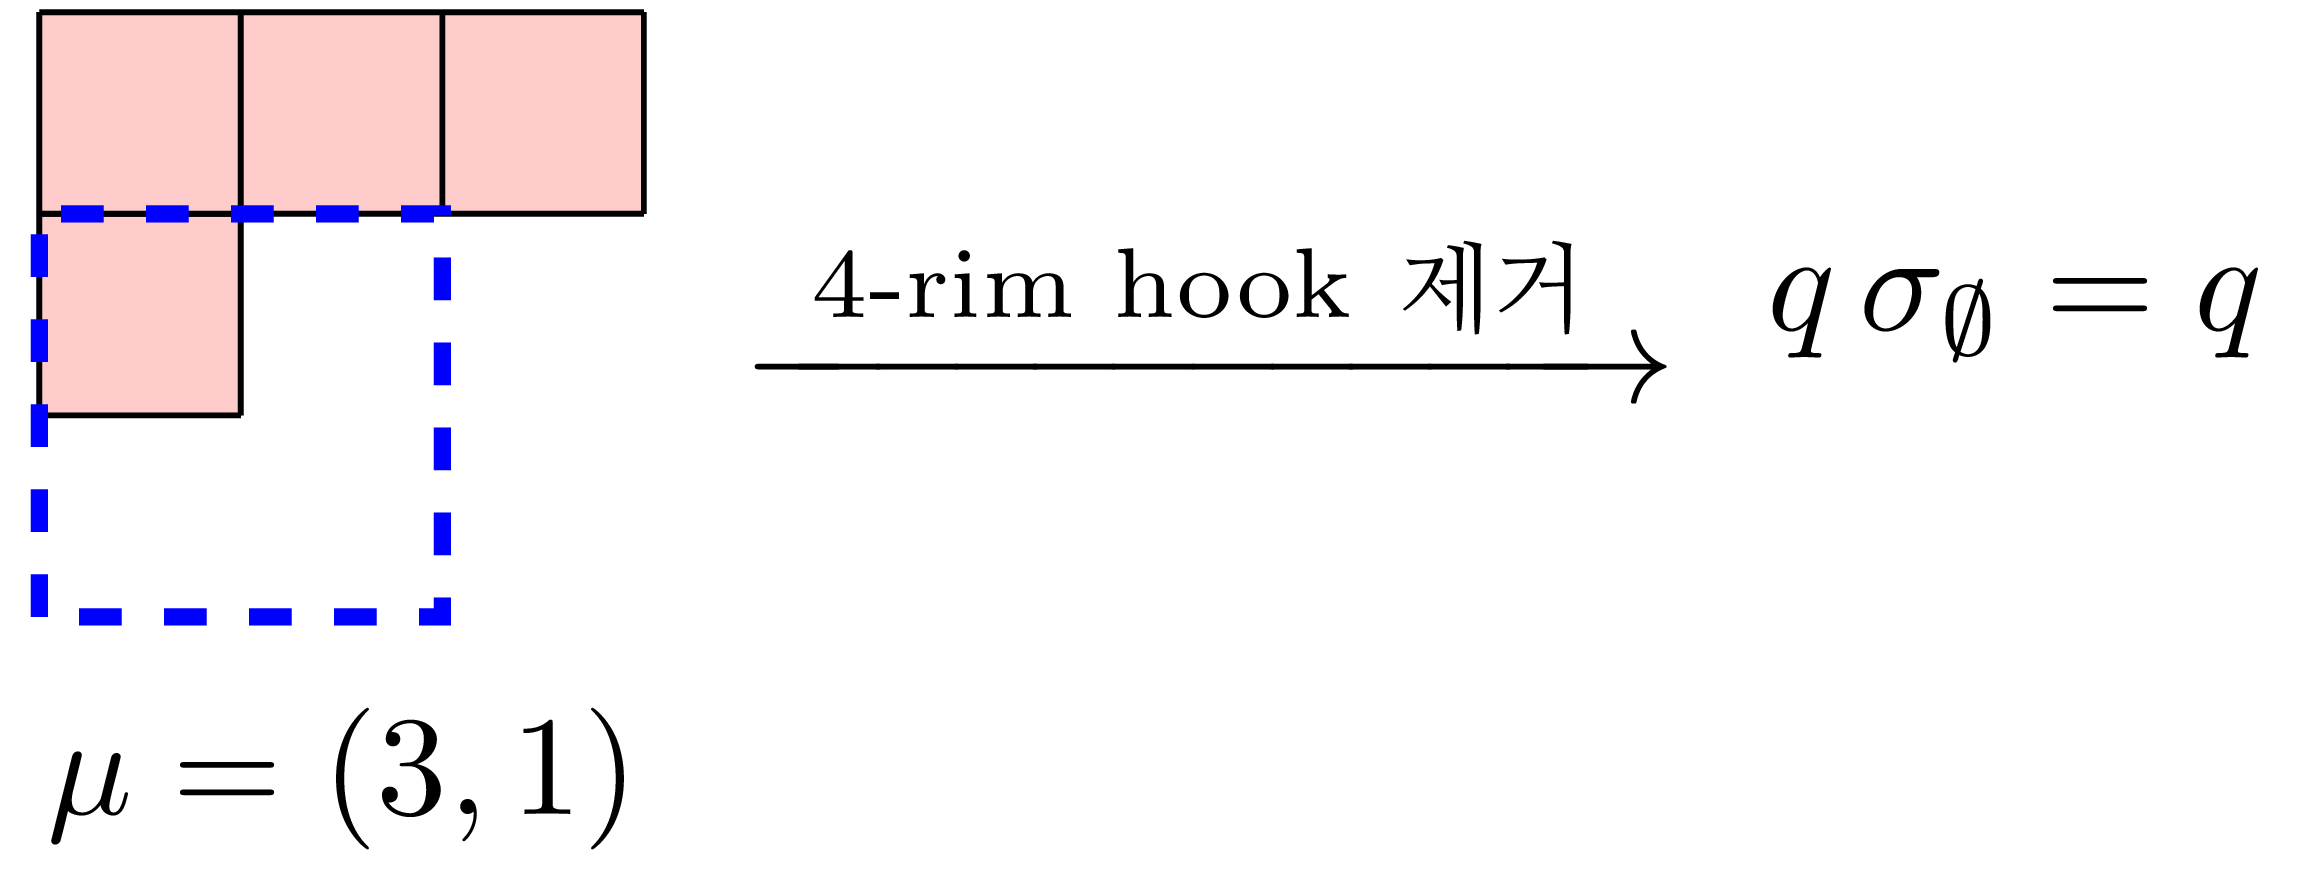
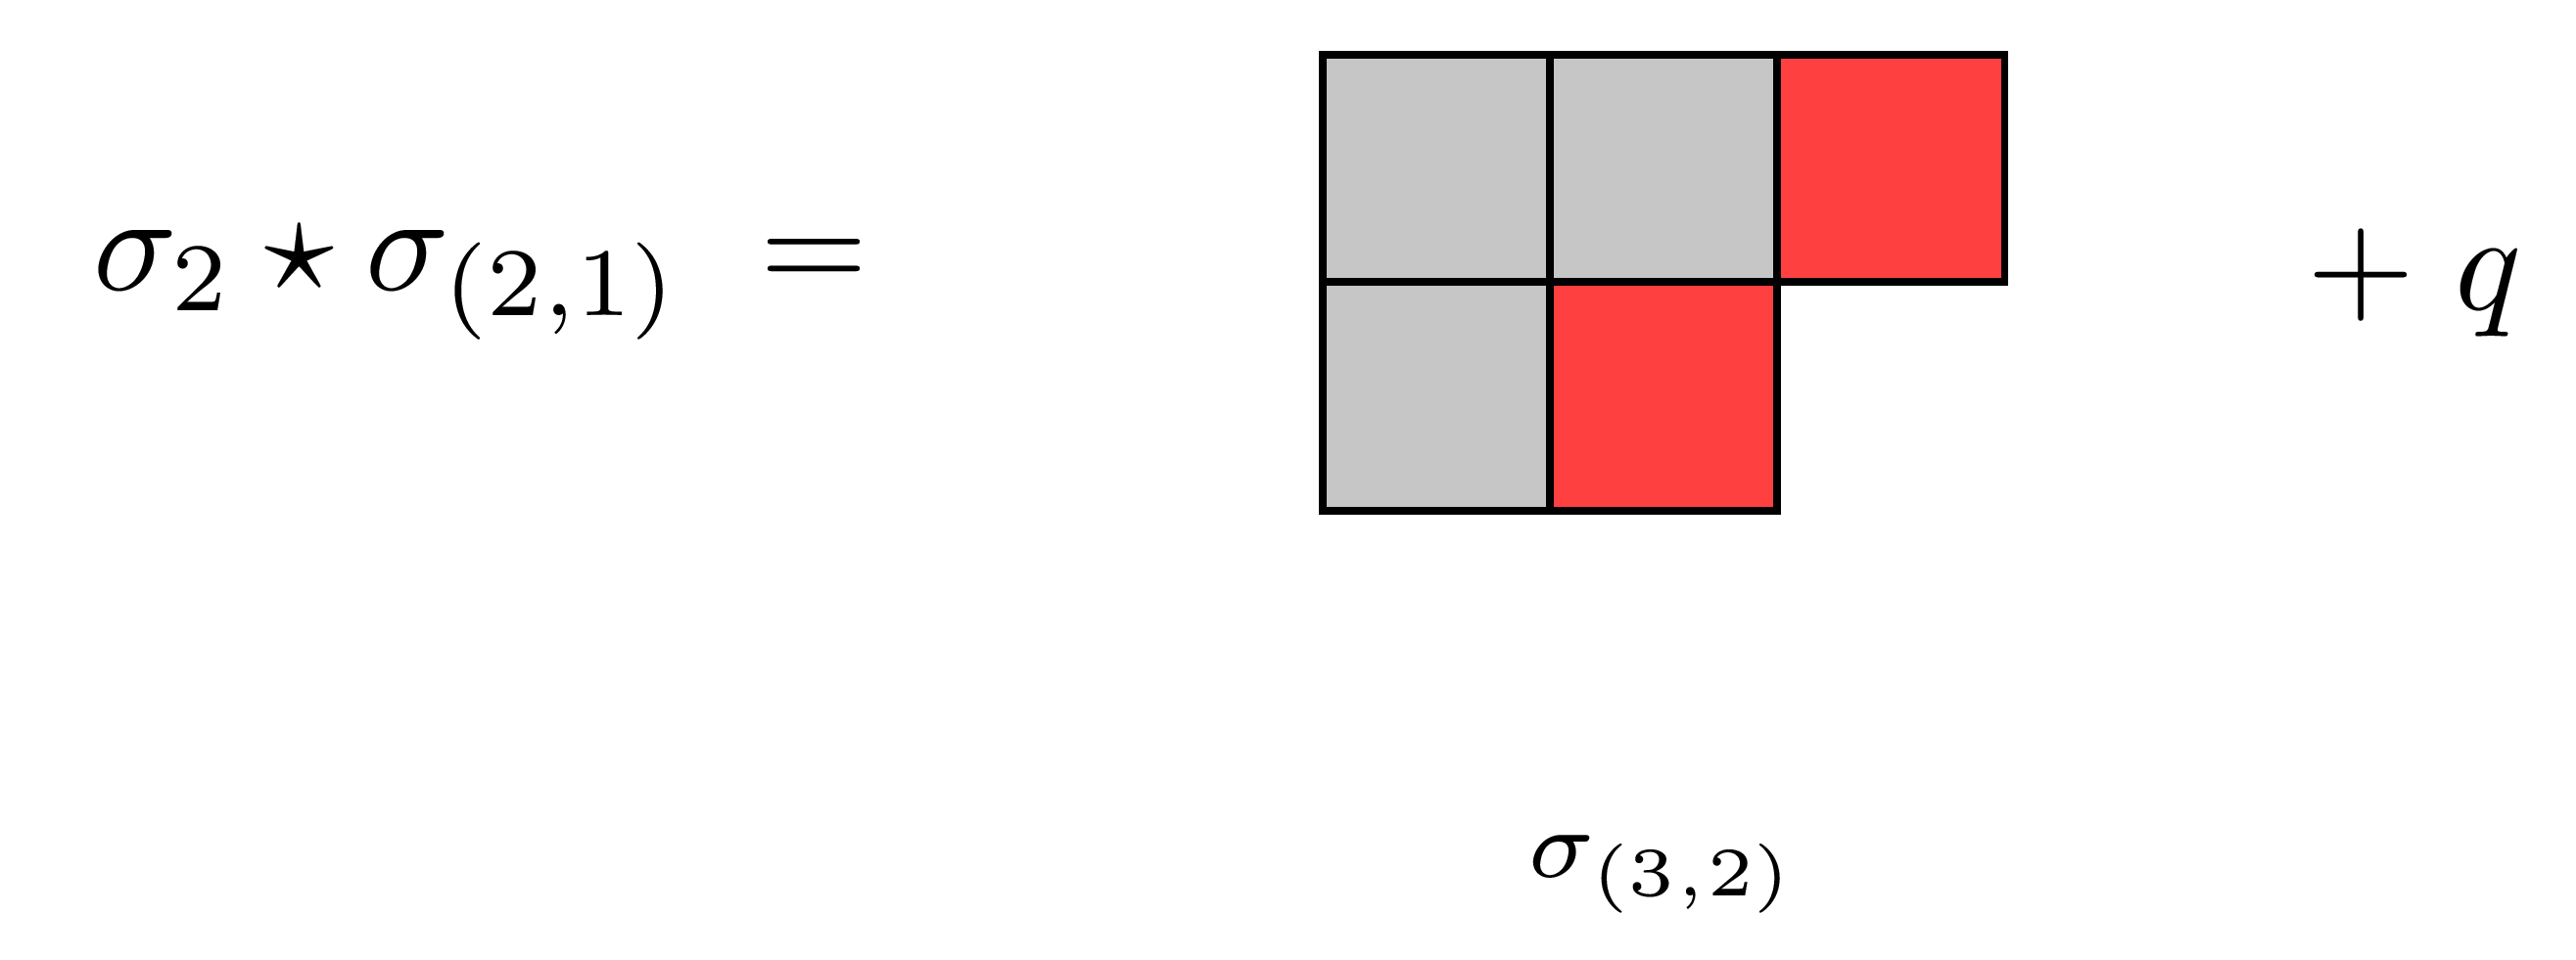
Auto: 260608 00:00
- About (ko): 소개 페이지 이미지 경로 대소문자 수정 및 카테고리 설명 문구 정리
- Quantum_Pieri_Rule (ko): 여집합 partition 정의와 dual basis 성질 관련 중복 설명 제거
- Mirror_Symmetry (tex): Quantum Pieri Rule 예시 도식에 classical 후보 및 초록 강조 추가
- Quantum_Pieri_Rule-4.png: Pieri Rule 도식 이미지 업데이트
- Quantum_Pieri_Rule-5.png: Pieri Rule 도식 이미지 업데이트
- Quantum_Pieri_Rule-6.png: Pieri Rule 신규 도식 이미지 추가
- Quantum_Pieri_Rule-7.png: Pieri Rule 신규 도식 이미지 추가
- katex-macros.js: `\Fl` 매크로 추가
- term_extraction_review.md: Field Theory 관련 용어 검토 기록 추가

diff --git a/assets/js/katex-macros.js b/assets/js/katex-macros.js
@@ -109,6 +109,7 @@ window.KATEX_MACROS = {
     "\\Fix":"\\operatorname{Fix}",
     "\\Frac":"\\operatorname{Frac}",
     "\\Frob":"\\operatorname{Frob}",
+    "\\Fl":"\\operatorname{Fl}",
     "\\Fun":"\\operatorname{Fun}",
     "\\fun":"\\operatorname{fun}",
     "\\Gal":"\\operatorname{Gal}",

diff --git a/assets/diagrams/Math/Mirror_Symmetry/Mirror_Symmetry.tex b/assets/diagrams/Math/Mirror_Symmetry/Mirror_Symmetry.tex
@@ -131,13 +131,96 @@
   \end{scope}
 \end{tikzpicture}
 
-%% 예시11: Gr(2,5) σ_3⋆σ_(2)=σ_(3,2)+q; λ=(2) 회색 + horizontal strip 빨강, 초과분이 q (Quantum_Pieri_Rule-4.png)
+%% 예시11 첫째 계산 후보: Gr(2,5) σ_3⋆σ_2 classical 후보 (5),(4,1),(3,2); λ=(2) 회색 + horizontal 3-strip 빨강, 점선 2x3, (3,2)만 초록 (현재 Quantum_Pieri_Rule-7.png로 staging; 문서순서상 최종 -4 예정, rotation 시 -4)
+\begin{tikzpicture}[scale=0.5]
+  %% C1 (5): 1행이 점선 박스 오른쪽으로 초과
+  \begin{scope}[shift={(0,0)}]
+    \fill[gray!45] (0,0) rectangle (2,1);
+    \fill[red!75] (2,0) rectangle (5,1);
+    \draw (0,0) grid (5,1);
+    \draw[blue!70, thick, dashed] (0,-1) rectangle (3,1);
+    \node at (2.5,-2.7) {$(5)$};
+  \end{scope}
+  %% C2 (4,1): 1행 4번째 열이 점선 박스 오른쪽으로 초과
+  \begin{scope}[shift={(7,0)}]
+    \fill[gray!45] (0,0) rectangle (2,1);
+    \fill[red!75] (2,0) rectangle (4,1);
+    \fill[red!75] (0,-1) rectangle (1,0);
+    \draw (0,0) grid (4,1);
+    \draw (0,-1) grid (1,0);
+    \draw[blue!70, thick, dashed] (0,-1) rectangle (3,1);
+    \node at (2.0,-2.7) {$(4,1)$};
+  \end{scope}
+  %% C3 (3,2): 유일하게 2x3 직사각형 안에 들어감 (초록)
+  \begin{scope}[shift={(13,0)}]
+    \fill[gray!45] (0,0) rectangle (2,1);
+    \fill[red!75] (2,0) rectangle (3,1);
+    \fill[red!75] (0,-1) rectangle (2,0);
+    \draw (0,0) grid (3,1);
+    \draw (0,-1) grid (2,0);
+    \draw[green!55!black, very thick, dashed] (0,-1) rectangle (3,1);
+    \node at (1.5,-2.7) {$(3,2)$};
+    \node[green!45!black] at (1.5,-3.5) {\scriptsize $\subseteq 2\times 3$};
+  \end{scope}
+\end{tikzpicture}
+
+%% 예시11 후보: Gr(2,5) σ_2⋆σ_(2,1) classical 후보 (4,1),(3,1,1),(2,2,1),(3,2); (2,1) 회색 + strip 빨강, 점선 2x3, (3,2)만 초록 (Quantum_Pieri_Rule-4.png)
+\begin{tikzpicture}[scale=0.5]
+  %% C1 (4,1): 4번째 열이 점선 박스 오른쪽으로 초과
+  \begin{scope}[shift={(0,0)}]
+    \fill[gray!45] (0,0) rectangle (2,1);
+    \fill[gray!45] (0,-1) rectangle (1,0);
+    \fill[red!75] (2,0) rectangle (4,1);
+    \draw (0,0) grid (4,1);
+    \draw (0,-1) grid (1,0);
+    \draw[blue!70, thick, dashed] (0,-1) rectangle (3,1);
+    \node at (1.5,-2.7) {$(4,1)$};
+  \end{scope}
+  %% C2 (3,1,1): 3번째 행이 점선 박스 아래로 초과
+  \begin{scope}[shift={(5.5,0)}]
+    \fill[gray!45] (0,0) rectangle (2,1);
+    \fill[gray!45] (0,-1) rectangle (1,0);
+    \fill[red!75] (2,0) rectangle (3,1);
+    \fill[red!75] (0,-2) rectangle (1,-1);
+    \draw (0,0) grid (3,1);
+    \draw (0,-1) grid (1,0);
+    \draw (0,-2) grid (1,-1);
+    \draw[blue!70, thick, dashed] (0,-1) rectangle (3,1);
+    \node at (1.5,-2.7) {$(3,1,1)$};
+  \end{scope}
+  %% C3 (2,2,1): 3번째 행이 점선 박스 아래로 초과
+  \begin{scope}[shift={(11,0)}]
+    \fill[gray!45] (0,0) rectangle (2,1);
+    \fill[gray!45] (0,-1) rectangle (1,0);
+    \fill[red!75] (1,-1) rectangle (2,0);
+    \fill[red!75] (0,-2) rectangle (1,-1);
+    \draw (0,0) grid (2,1);
+    \draw (0,-1) grid (2,0);
+    \draw (0,-2) grid (1,-1);
+    \draw[blue!70, thick, dashed] (0,-1) rectangle (3,1);
+    \node at (1.5,-2.7) {$(2,2,1)$};
+  \end{scope}
+  %% C4 (3,2): 유일하게 2x3 직사각형 안에 들어감 (초록)
+  \begin{scope}[shift={(16.5,0)}]
+    \fill[gray!45] (0,0) rectangle (2,1);
+    \fill[gray!45] (0,-1) rectangle (1,0);
+    \fill[red!75] (2,0) rectangle (3,1);
+    \fill[red!75] (1,-1) rectangle (2,0);
+    \draw (0,0) grid (3,1);
+    \draw (0,-1) grid (2,0);
+    \draw[green!55!black, very thick, dashed] (0,-1) rectangle (3,1);
+    \node at (1.5,-2.7) {$(3,2)$};
+    \node[green!45!black] at (1.5,-3.5) {\scriptsize $\subseteq 2\times 3$};
+  \end{scope}
+\end{tikzpicture}
+
+%% 예시11 결과: Gr(2,5) σ_2⋆σ_(2,1)=σ_(3,2)+q; λ=(2,1) 회색 + horizontal 2-strip 빨강, 초과분이 q (Quantum_Pieri_Rule-5.png)
 \ytableausetup{boxsize=1.6em, centertableaux}
 \begin{tikzpicture}
-\node (eq) at (0,0) {$\sigma_3 \star \sigma_{(2)} \;=$};
-\node (a) at (2.7,0) {\begin{ytableau} *(gray!45) & *(gray!45) & *(red!75) \\ *(red!75) & *(red!75) \end{ytableau}};
-\node at (4.3,0) {$+\; q$};
-\node at (2.7,-1.4) {\scriptsize $\sigma_{(3,2)}$};
+\node (eq) at (0,0) {$\sigma_2 \star \sigma_{(2,1)} \;=$};
+\node (a) at (3.0,0) {\begin{ytableau} *(gray!45) & *(gray!45) & *(red!75) \\ *(gray!45) & *(red!75) \end{ytableau}};
+\node at (4.9,0) {$+\; q$};
+\node at (3.0,-1.5) {\scriptsize $\sigma_{(3,2)}$};
 \end{tikzpicture}
 
 %% 고전 Pieri: (1)에 2 box를 horizontal strip으로 추가 → (3), (2,1) (Quantum_Pieri_Rule-3.png)
@@ -165,7 +248,7 @@
   \end{scope}
 \end{tikzpicture}
 
-%% rim hook: Gr(2,4)에서 직사각형(2x2) 밖 (3,1)의 4-rim hook 제거 → ∅, +q (Quantum_Pieri_Rule-5.png)
+%% rim hook: Gr(2,4)에서 직사각형(2x2) 밖 (3,1)의 4-rim hook 제거 → ∅, +q (Quantum_Pieri_Rule-6.png)
 \begin{tikzpicture}[scale=0.5]
   \begin{scope}[shift={(0,0)}]
     \fill[red!20] (0,0) rectangle (3,1);

diff --git a/scripts/term-extraction/term_extraction_review.md b/scripts/term-extraction/term_extraction_review.md
@@ -4579,3 +4579,31 @@ Decide whether each one is a definition and edit `_pages/ko/Index_ko.md` accordi
 | `Symmetric Functions and Hall Polynomials` | multi-word English emphasis — possibly a definition |
 | `Young Tableaux` | multi-word English emphasis — possibly a definition |
 
+## 분리가능차수
+- post: `_posts/Math/Field_Theory/ko/2025-05-17-Separable_Degree.md`
+- permalink: `/ko/math/field_theory/separable_degree`
+- scanned: 2026-06-07T14:00:02+00:00
+
+| term | agent recommendation |
+| --- | --- |
+| `perfect` | looks like emphasis (no <sub> partner) |
+
+## 갈루아 군의 성질들
+- post: `_posts/Math/Field_Theory/ko/2025-06-18-Properties_of_Galois_Extensions.md`
+- permalink: `/ko/math/field_theory/properties_of_galois_extensions`
+- scanned: 2026-06-07T14:40:01+00:00
+
+| term | agent recommendation |
+| --- | --- |
+| `finite` | looks like emphasis (no <sub> partner) |
+| `Galois` | looks like emphasis (no <sub> partner) |
+
+## 갈루아 이론의 기본정리
+- post: `_posts/Math/Field_Theory/ko/2025-06-27-Fundamental_Theorem_of_Galois_Theory.md`
+- permalink: `/ko/math/field_theory/fundamental_theorem_of_galois_theory`
+- scanned: 2026-06-07T15:00:01+00:00
+
+| term | agent recommendation |
+| --- | --- |
+| `closed` | looks like emphasis (no <sub> partner) |
+

diff --git a/_pages/ko/About.md b/_pages/ko/About.md
@@ -19,7 +19,7 @@ sidebar:
 
 이 블로그의 프로토타입은 군대에 있을 때 싸지방에서 overleaf를 이용해서 작성한 600페이지 가량의 $\TeX$ 문서인데, 이를 한글로 옮기고 적당히 수정하여 글을 쓰고 있습니다. 
 
-![](/assets/images/Pages/About/notice.png){:width="250px" .align-center}
+![](/assets/images/Pages/About/Notice.png){:width="250px" .align-center}
 
 블로그의 제목은 언젠가 제 선배 하나가 저에게 해준 말에서 따 왔습니다. 대략적으로, 연구할 때 모든 내용을 다 공부하려 하지 말고,  fact로 받아들일 것들을 정한 후 그에 대한 증명과 같은 것들은 저만의 블랙박스 안에 담아두라는 이야기였던 것으로 기억합니다. 
 
@@ -53,16 +53,16 @@ sidebar:
 - [\[대수적 구조\]](/ko/algebraic_structures/) 카테고리는 대략적으로 학부 현대대수학(추상대수학)에 해당하는 내용이며, group, ring, module, algebra 네 개의 파트로 나누어져 있습니다. 학부 내용과 다른 점은 [\[범주론\]](/ko/category_theory)의 언어를 많이 차용했다는 점입니다.
 - [\[다중선형대수학\]](/ko/multilinear_algebra/) 카테고리를 설명하려면 약간의 변명이 필요합니다. 원래는 [\[대수적 구조\]](/ko/algebraic_structures/) 카테고리의 메인 레퍼런스인 **[Bou2]**의 Chapter 3에 해당하는 내용을 다루려 했으나, algebra에 대한 내용이 [\[대수적 구조\]](/ko/algebraic_structures/) 카테고리로 가버렸고, 그렇다고 이 부분만 빼고 나머지 부분을 하나의 카테고리로 하기에는 [\[범주론\]](/ko/category_theory)의 언어를 사용하면서 **[Bou2]**에서 불필요하게 반복되는 증명을 빼고 보니 많은 것이 남지 않았습니다. 그래서 이 카테고리의 글들은 학부 선형대수학인 [\[선형대수학\]](/ko/linear_algebra) 카테고리의 글들을 일반적인 $A$-module로 올리는 것과, tensor algebra등의 내용을 소개하는 것 두 가지 목표를 가지게 되었습니다. 그러다보니 이름이 다소 적절치 않아졌지만, 마땅히 생각나는 이름이 있지도 않네요.
 - [\[호몰로지 대수학\]](/ko/homological_algebra/) 카테고리에서는 호몰로지 대수학에 대해서 배웁니다.
-![homology](/assets/images/Pages/About/homology.jpg){:style="width:400px" .align-center}
+![homology](/assets/images/Pages/About/Homology.jpg){:style="width:400px" .align-center}
 <cap> Twitter</cap>
 - [\[가환대수학\]](/ko/homological_algebra/) 카테고리에서는 가환대수학을 합니다. 즉 commutative ring과, 그를 통해 정의된 module 구조를 살펴봅니다. 다만 가급적이면 분야들을 명확하게 나눠놓고 싶어서, 이것이 기하학적으로 어떠한 의미를 갖는지는 모두 [\[대수기하학\]](/ko/algebraic_varieties/) 카테고리에 있습니다. 이 부분은 특히 메인 레퍼런스인 **[Eis]**보다 잘 쓸 자신이 도무지 없어서, 거의 이 책에서 기하적인 직관만 뺀 형태입니다.
 - [\[위상수학\]](/ko/topology/) 카테고리에서는 위상수학을 다루는데, 아무레도 레퍼런스가 **[Bou3]**이다보니 학부수준이라고 하기에는 묘한 내용들도 조금 있습니다. 이왕 이렇게 된거, 보편적으로 [\[대수기하학\]](/ko/algebraic_varieties/)에서 배우게 되는 sheaf 관련 내용들도 여기에 있습니다.
 - [\[대수적 위상수학\]]() 카테고리는 아직 시작하지 않았지만, [\[호몰로지 대수학\]](/ko/homological_algebra/) 카테고리에서 필요한 내용을 모두 만들었으니, 여기에 기하적인 flavor만 추가하면 됩니다. 물론 homotopy 또한 중요한 주제이니, 이 또한 다뤄야 할거고요.
 - [\[미분다양체\]](/ko/manifolds/) 카테고리는 말 그대로 미분다양체입니다. 이 카테고리의 글들을 쓰며 참고한 메인 레퍼런스는 **[War]**지만, 제가 처음 이 분야를 공부한 책은 **[Lee2]**이고 이 책의 설명이 훨씬 친절한 부분도 많다보니 대략적으로 반반 정도의 비중이 되는 것 같습니다. **[Lee2]**을 참고한 것은 다음 카테고리인 미분기하학에서 Riemannian metric에 대한 내용을 다루기 위해서입니다.
 - [\[미분기하학\]](/ko/differential_geometry/) 카테고리는 위의 [\[미분다양체\]](/ko/manifold) 카테고리의 뒤를 이어, **[Lee3]**를 따라 리만기하를 하려 했던 카테고리입니다. 다만, 현재는 제 전공이 이쪽 분야와 다소 멀어지게 되어 언제쯤 업데이트가 될지는 잘 모르겠습니다. 
-- [\[대수기하학\]](/ko/algebraic_varieties/) 카테고리에서는 [\[가환대수학\]](/ko/homological_algebra/) 카테고리에서 만든 도구를 이용하여 기하학을 합니다. 이 카테고리가 뒤쪽에 있는 이유는 [\[미분다양체\]](/ko/manifolds/) 등의 카테고리에서 기하학적 직관을 기르기 위한 것입니다. 다만 아직도 이 카테고리의 글을 쓸 때 기하학적 직관을 우선할지, 대수적인 formalism을 우선할지 마음을 정하지 못해서 아직 카테고리 글들이 좀 난장판입니다. 
+- 원래는 대수기하학 카테고리가 있었는데, 이를 약간 다듬어 기하학적 직관을 더 주는 [\[대수다양체\]](/ko/algebraic_varieties/) 카테고리와, 약간 더 테크니컬한 [\[스킴\]](/ko/scheme_theory/) 카테고리로 나누었습니다. 물론 [\[가환대수학\]](/ko/homological_algebra/) 카테고리만 있어도 논리적으로는 진행이 가능하겠지만, 이 카테고리가 뒤쪽에 있는 이유는 [\[미분다양체\]](/ko/manifolds/) 등의 카테고리에서 기하학적 직관을 기르기 위한 것입니다. 
 
-해석학 관련 내용은 아마 [\[위상수학\]](/ko/topology/)-[\[대수적 위상수학\]]()이 끝난 직후에 넣는 것이 순서상 자연스러울 것 같은데, 그게 언제가 될지는 잘 모르겠습니다.
+해석학 관련 내용은 아마 [\[위상수학\]](/ko/topology/)-[\[대수적 위상수학\]](/ko/algebraic_topology)이 끝난 직후에 넣는 것이 순서상 자연스러울 것 같은데, 그게 언제가 될지는 잘 모르겠습니다.
 
 맨 처음 언급한 것과 같이 이들 카테고리의 글들은 모두 기존에 있던 레퍼런스들을 굉장히 많이 참고한 것인데, 이 레퍼런스들은 각 글 뒤에도 달아뒀지만 분야별로 모아두는 것도 괜찮을 것 같아 이렇게 정리해둡니다.
 
@@ -121,6 +121,8 @@ sidebar:
 ### 블로그 개발일지
 
 수학이 아닌 카테고리는 우선 블로그 개발일지만 있습니다. 사실 그 외에 여기에 쓸 내용이 뭐가 있을지 모르겠습니다. 뭐 일기를 쓸 건 아니니까요... 저는 코딩을 전혀 할 줄 몰라 이 사이트를 만들며 삽질을 계속해야 했었는데, 혹시라도 비슷한 삽질을 할 사람이 있을까 하여 기록으로 남겨두었습니다.
+
+
 
 ## 기술적인 내용들
 